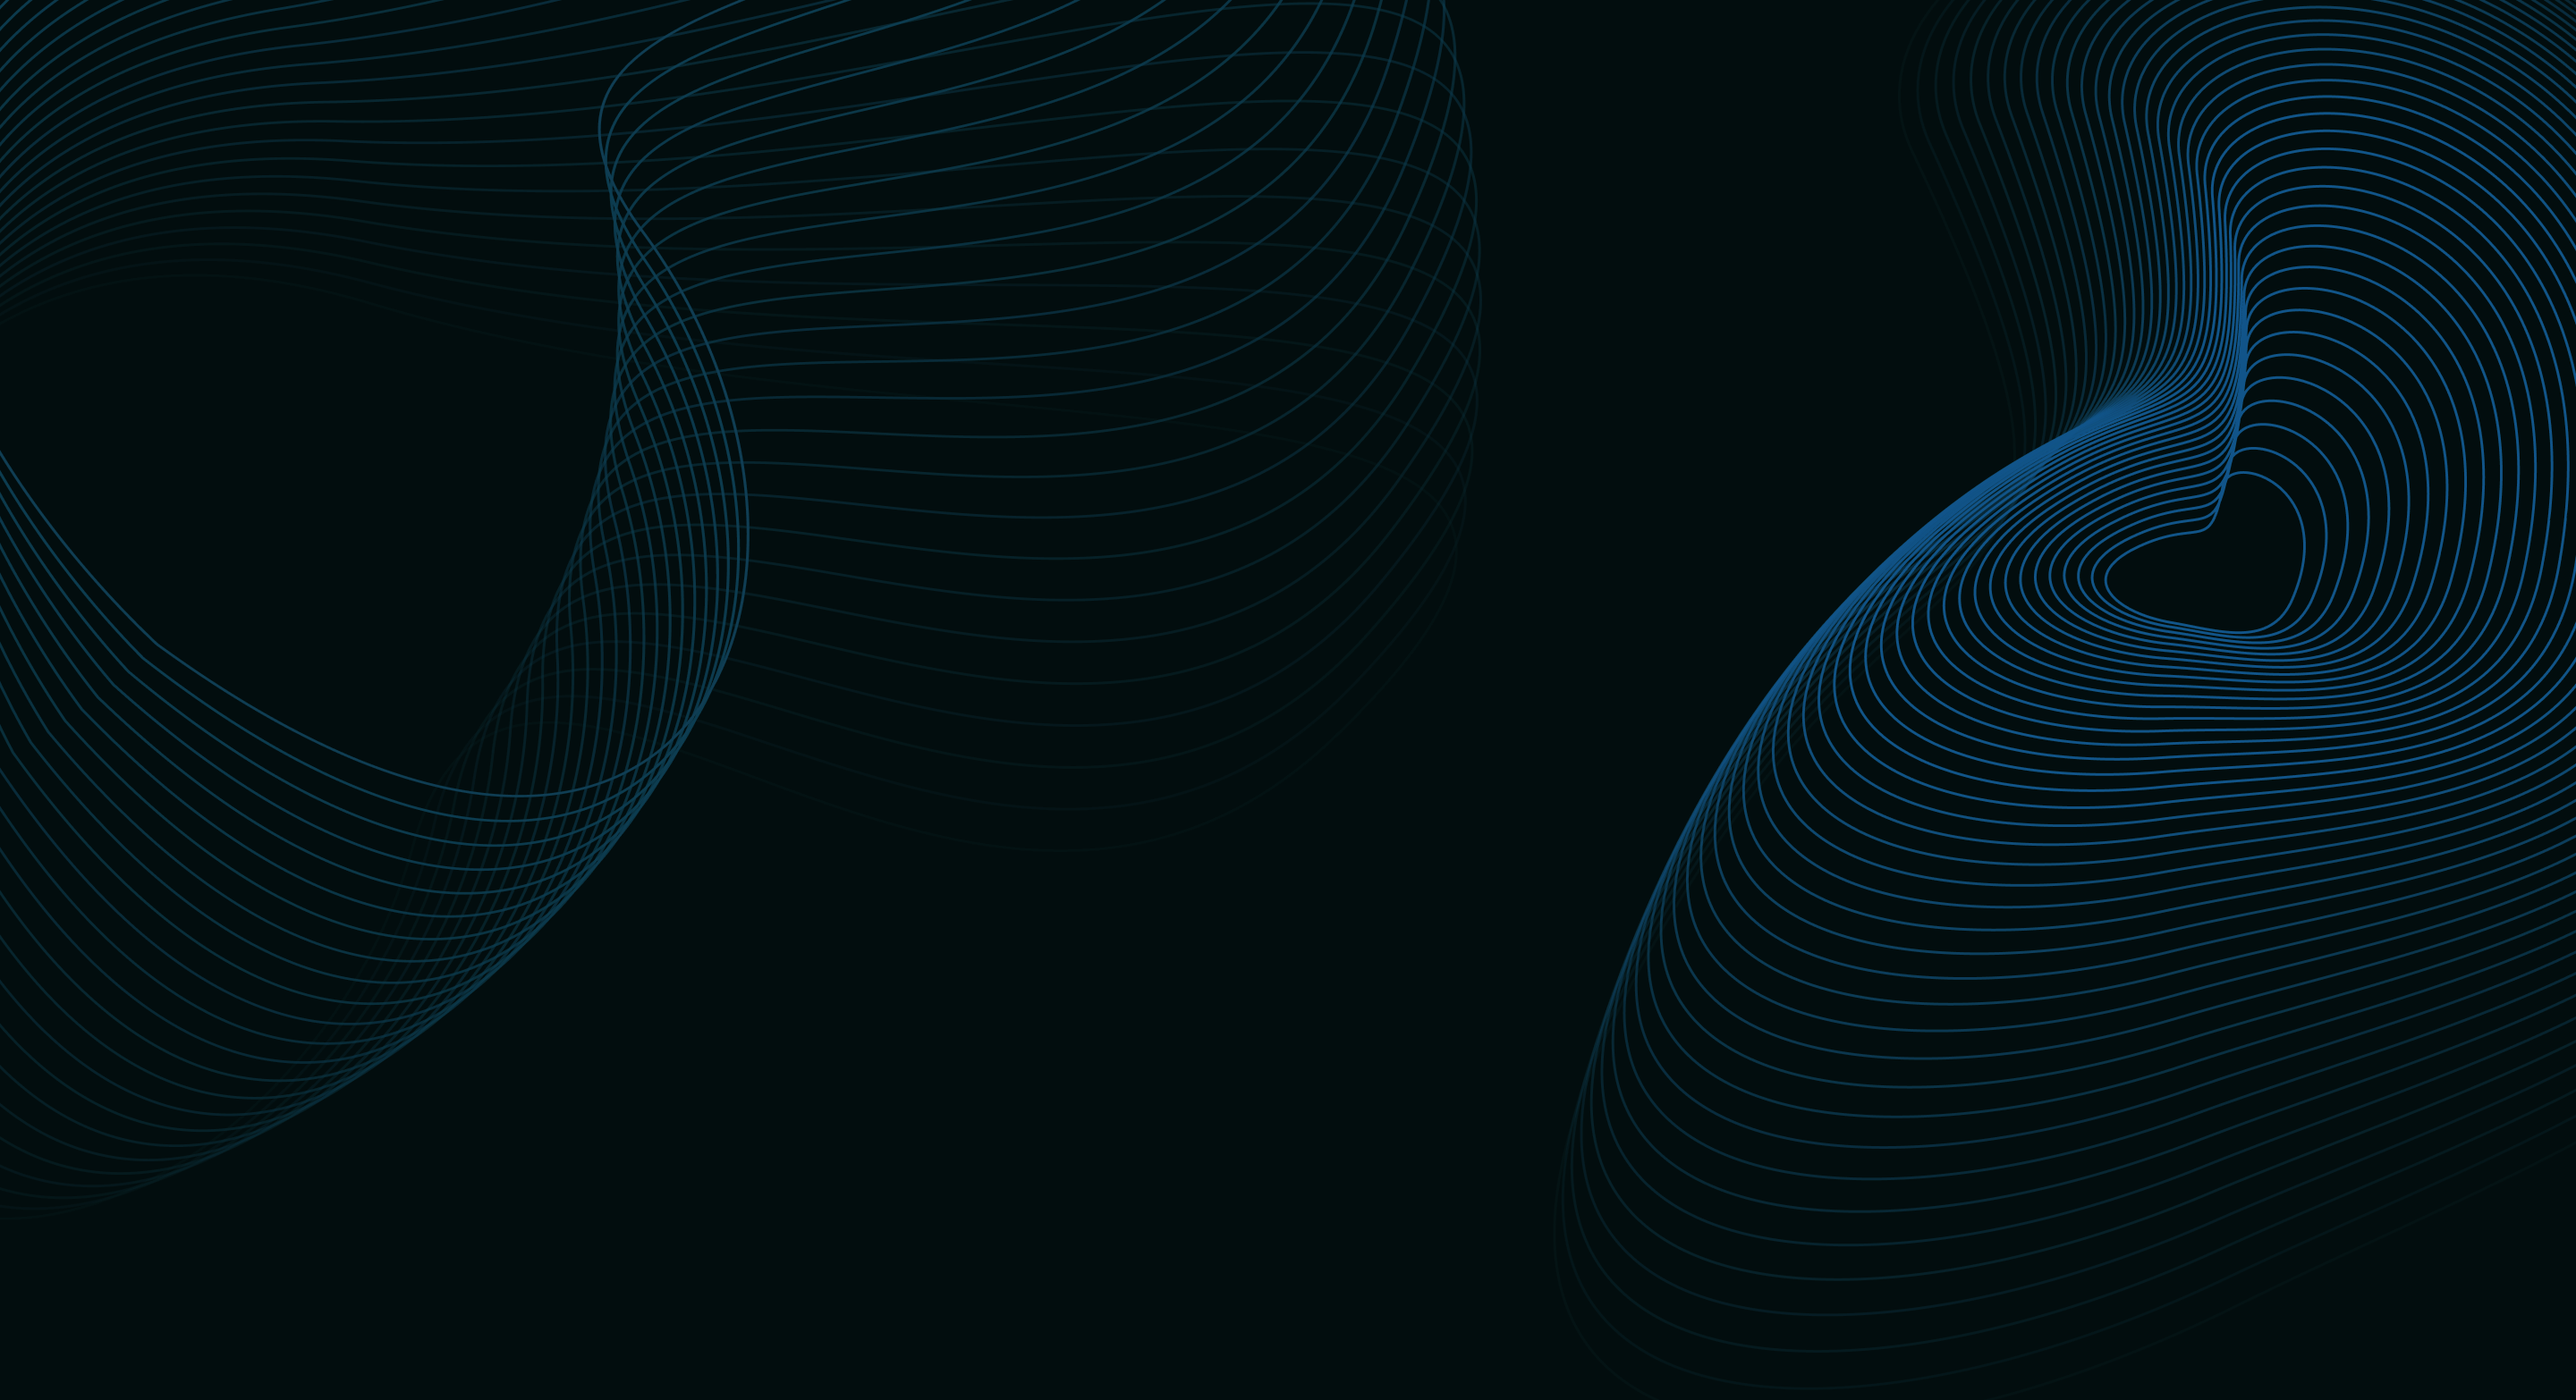
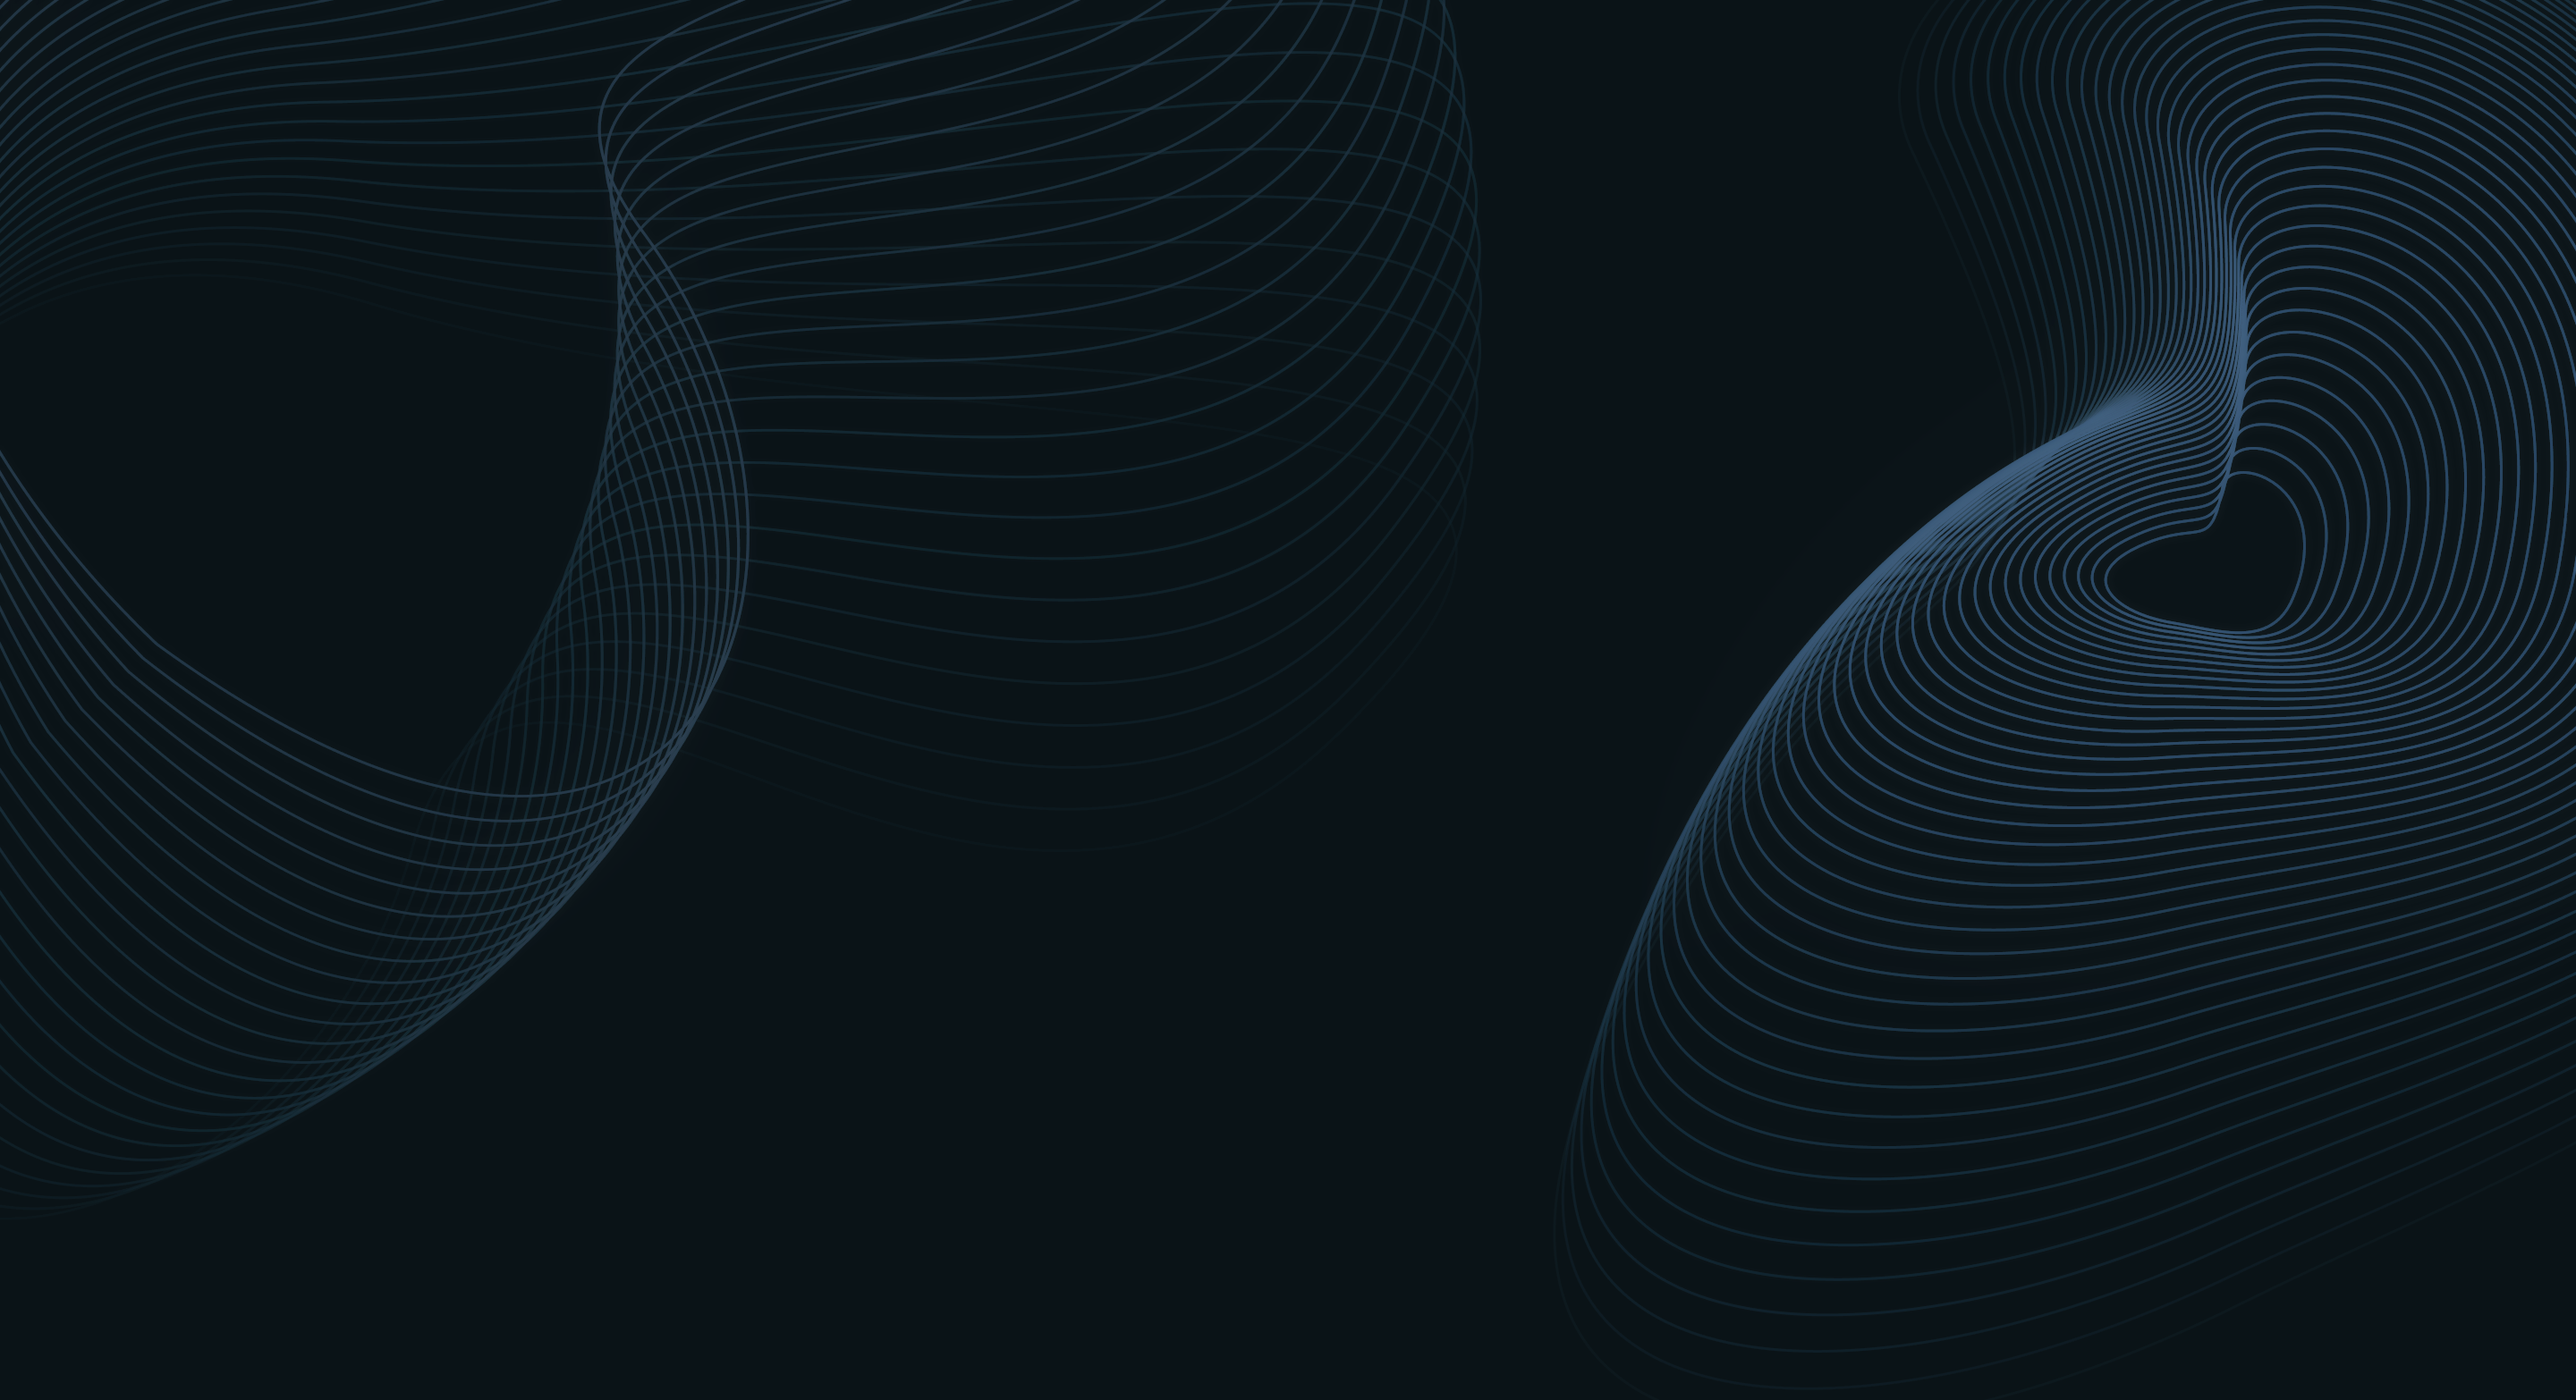
- Improved welcome section

diff --git a/src/components/canvas/City.jsx b/src/components/canvas/City.jsx
@@ -17,13 +17,13 @@ import {
 import { Vector3 } from "three";
 import CanvasLoader from "../Loader";
 
-const LAYER_PATHS = [
-  "./city/city-layer-2.glb",
-  "./city/city-layer-3.glb",
+const LAYER_PATHS = [  
   "./city/city-layer-4.glb",
+  "./city/city-layer-1.glb",
   "./city/city-layer-5.glb",
   "./city/city-layer-6.glb",
-  "./city/city-layer-1.glb",
+  "./city/city-layer-2.glb",
+  "./city/city-layer-3.glb",
 ];
 
 const FADE_DURATION = 1.2;
@@ -202,8 +202,8 @@ const City = ({ isMobile, onFirstPrepared, dollyProgressRef }) => {
 
   const mobileConfig = useMemo(
     () => ({
-      scale: isMobile ? 0.9 : 1.1,
-      position: isMobile ? [0, -2.8, -1] : [0, -3.25, -1.5],
+      scale: isMobile ? 1.1 : 1.6,
+      position: isMobile ? [0, -3, -1] : [0, -4, -2.5],
       rotation: [0, (Math.PI / 2) * 3, 0],
     }),
     [isMobile]
@@ -232,18 +232,19 @@ const City = ({ isMobile, onFirstPrepared, dollyProgressRef }) => {
 
   return (
     <mesh>
-      <hemisphereLight intensity={0.85} groundColor="green" />
+      <hemisphereLight intensity={1} groundColor="#84ffe9" />
       <spotLight
-        position={[20, 50, 50]}
-        angle={1.5}
-        penumbra={0.5}
-        intensity={2.5}
+        angle={Math.PI}
+        penumbra={5}
+        intensity={50}
         castShadow
+        color={"#84ffe9"}
         shadow-mapSize={524}
       />
       <pointLight
         ref={pointLightRef}
-        intensity={0}
+        intensity={10}
+
         color="#84ffe9"
       />
 
@@ -335,8 +336,8 @@ const CityCanvas = () => {
           <OrbitControls
             ref={controlsRef}
             enableZoom={false}
-            maxPolarAngle={Math.PI / 2}
-            minPolarAngle={Math.PI / 2}
+            maxPolarAngle={isMobile ? Math.PI / 2.2 : Math.PI / 1.9}
+            minPolarAngle={isMobile ? Math.PI / 2.2 : Math.PI / 1.9}
           />
           {overlayOpacity === 0 && (
             <PerformanceMonitor onDecline={() => {}}>
